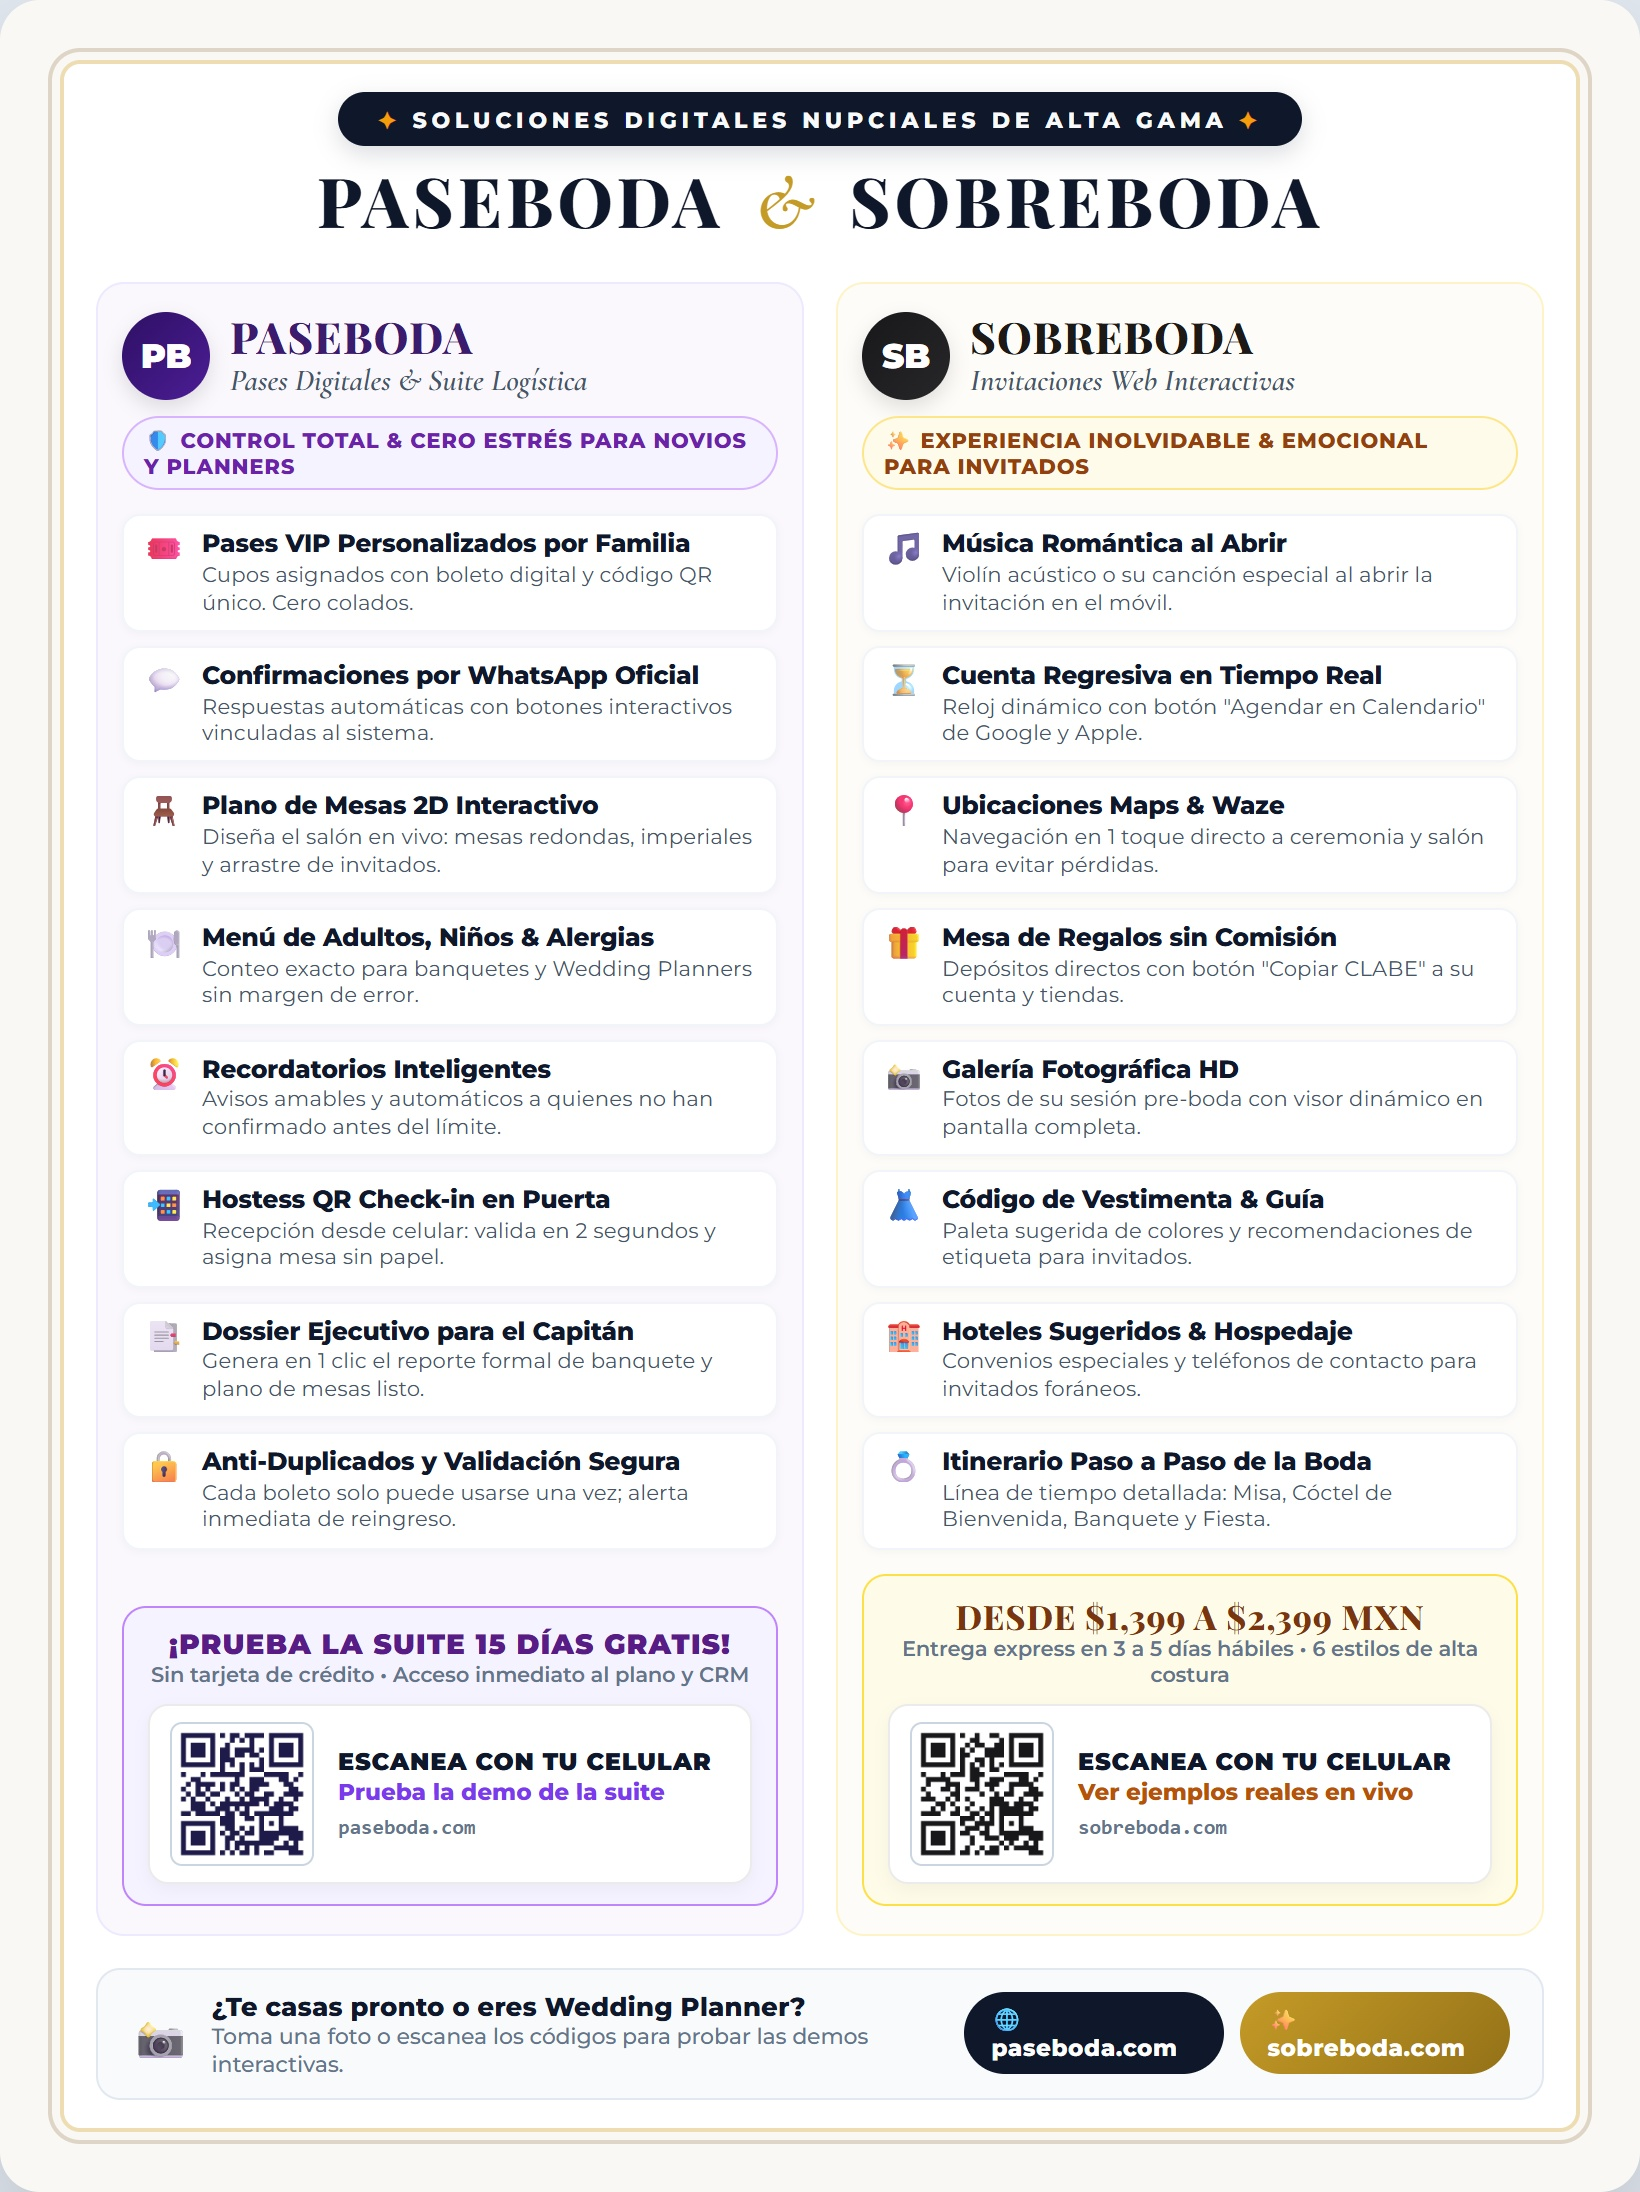
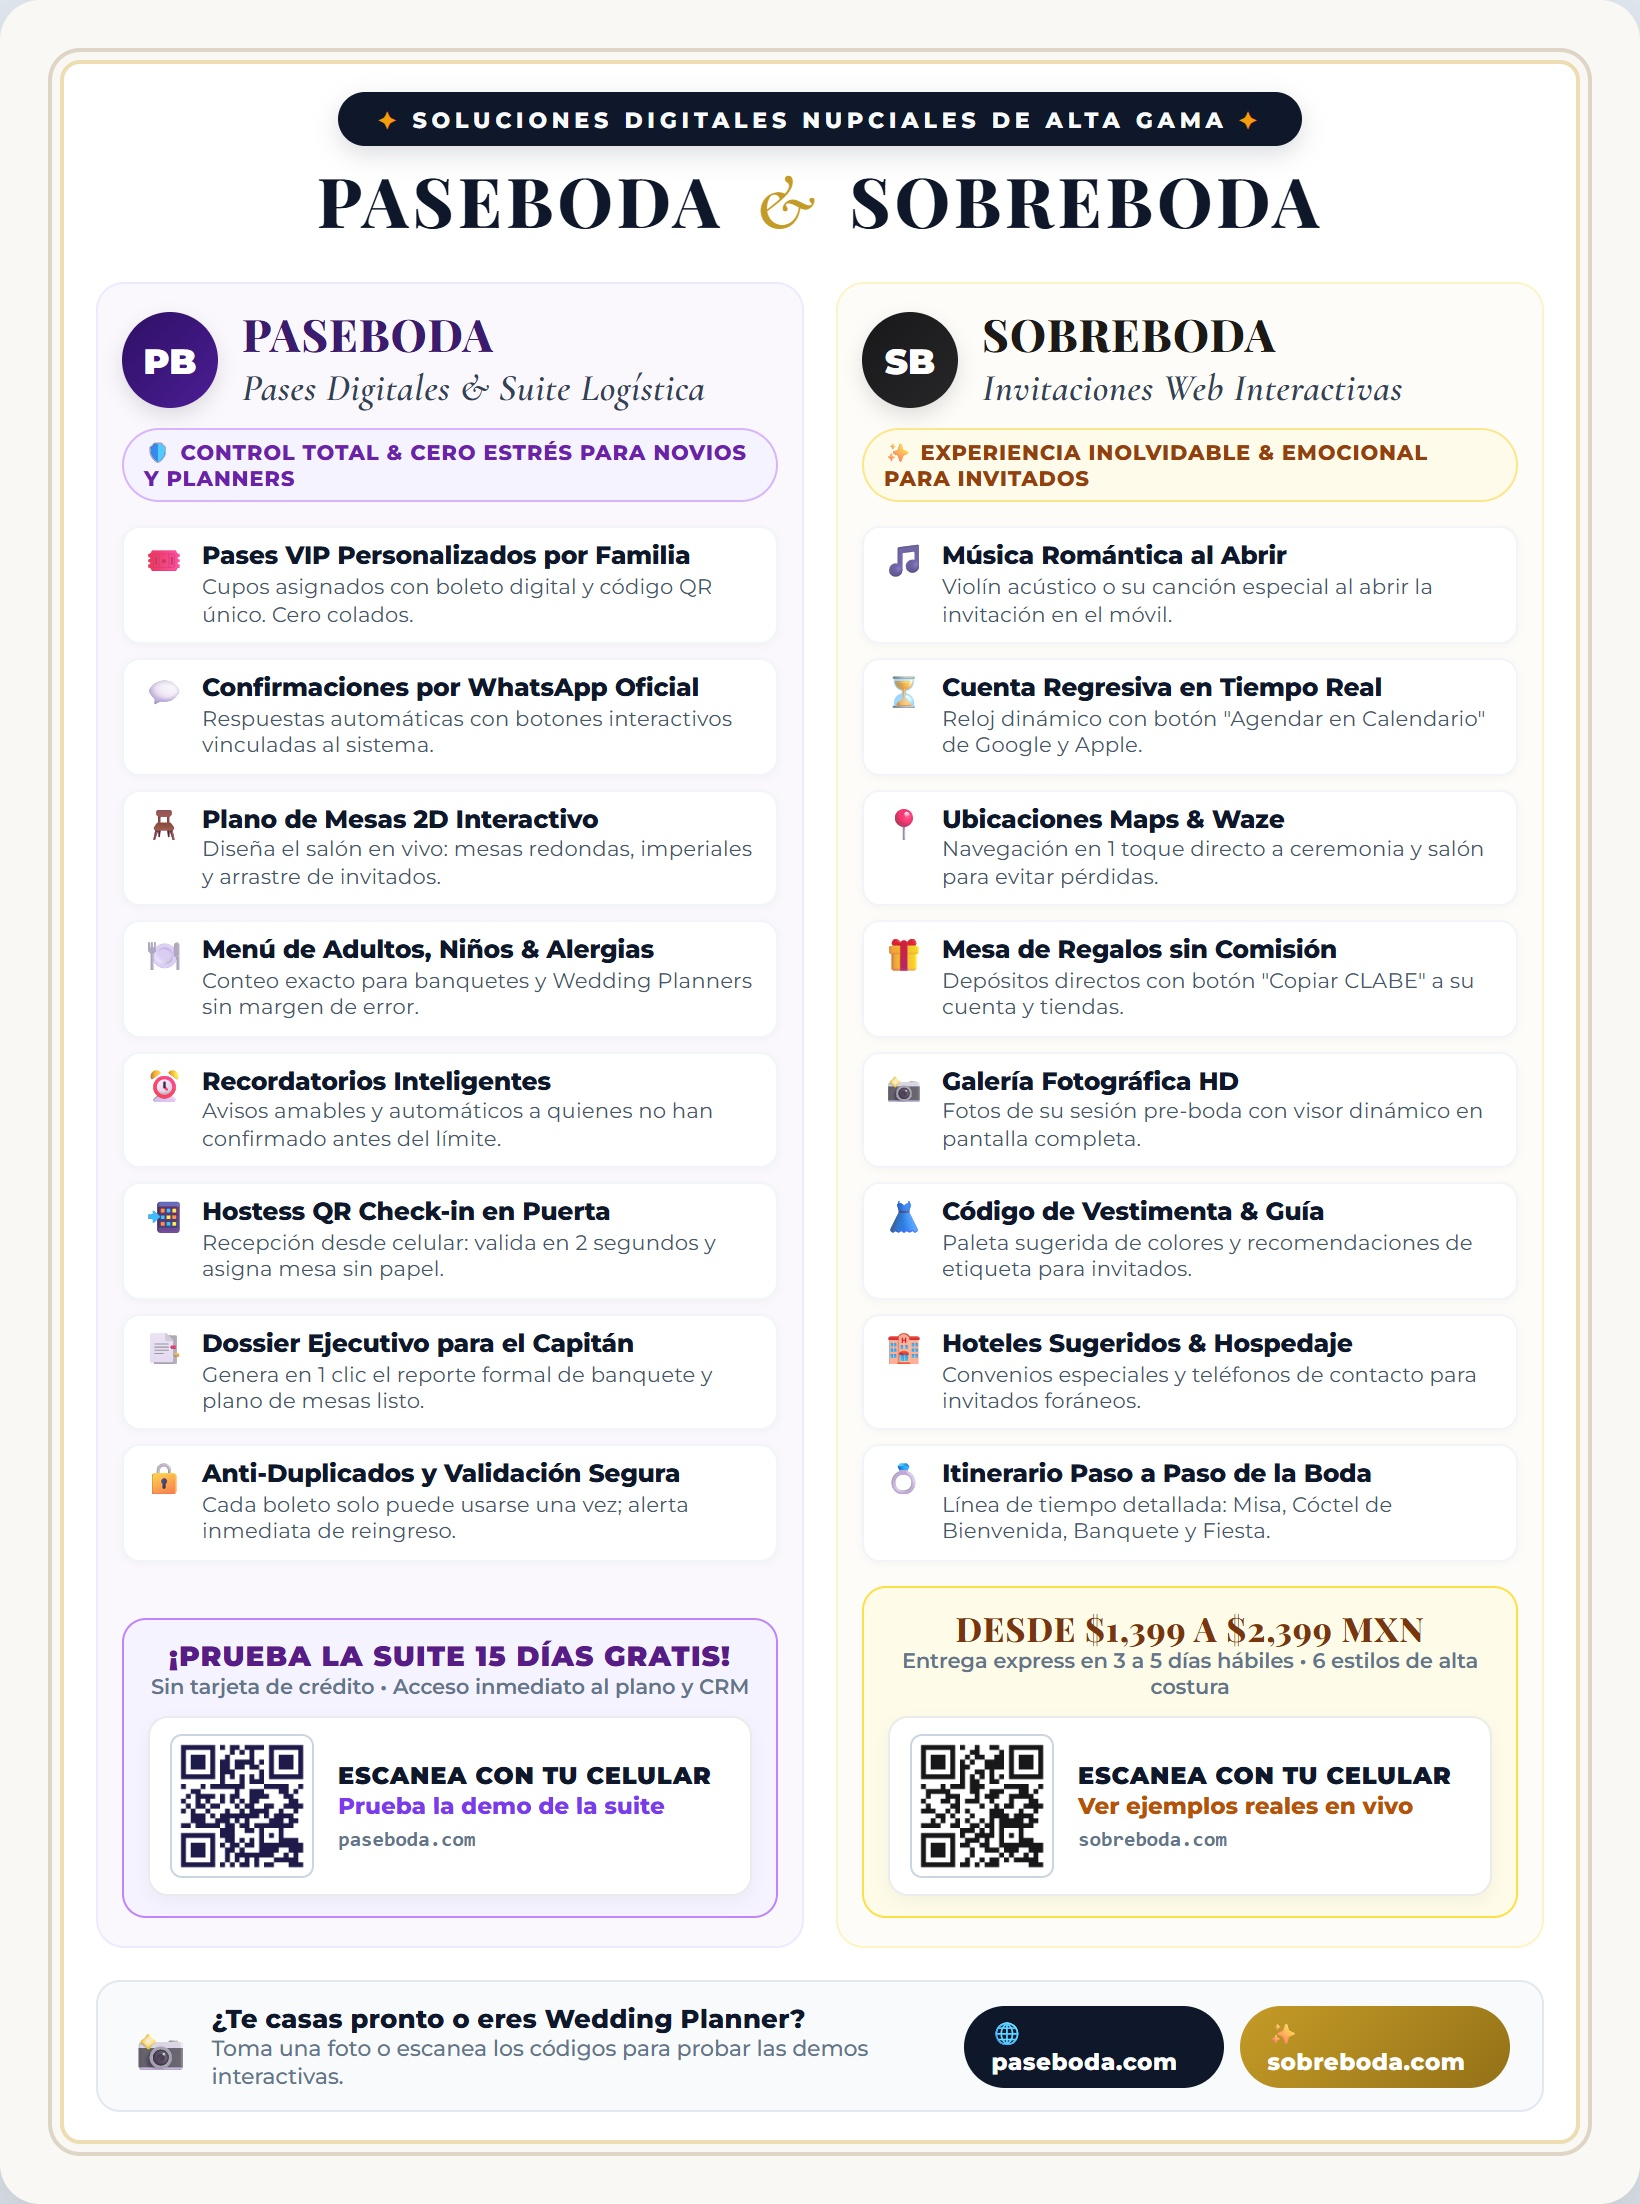
style: enlarge brand subtitles on double wall flyer for better distance visibility

diff --git a/flyer-pared-doble.html b/flyer-pared-doble.html
@@ -136,18 +136,18 @@
         .brand-header {
             display: flex;
             align-items: center;
-            gap: 10px;
-            margin-bottom: 8px;
+            gap: 12px;
+            margin-bottom: 10px;
         }
         .brand-avatar {
-            width: 44px;
-            height: 44px;
+            width: 48px;
+            height: 48px;
             border-radius: 50%;
             display: flex;
             align-items: center;
             justify-content: center;
             font-weight: 900;
-            font-size: 1.05rem;
+            font-size: 1.1rem;
             color: #ffffff;
             flex-shrink: 0;
             box-shadow: 0 4px 10px rgba(0,0,0,0.12);
@@ -157,11 +157,11 @@
 
         .brand-titles h3 {
             font-family: 'Playfair Display', serif;
-            font-size: 1.35rem;
+            font-size: 1.4rem;
             font-weight: 800;
             letter-spacing: 0.5px;
-            line-height: 1;
-            margin-bottom: 3px;
+            line-height: 1.05;
+            margin-bottom: 4px;
         }
         .title-pb { color: var(--pb-purple); }
         .title-sb { color: var(--sb-dark); }
@@ -169,10 +169,11 @@
         .brand-titles p {
             font-family: 'Cormorant Garamond', serif;
             font-style: italic;
-            font-size: 0.95rem;
-            font-weight: 600;
-            color: #475569;
-            line-height: 1;
+            font-size: 1.18rem;
+            font-weight: 700;
+            color: #334155;
+            line-height: 1.1;
+            letter-spacing: 0.3px;
         }
 
         .brand-pill {

diff --git a/scripts/send-flyer-tg.js b/scripts/send-flyer-tg.js
@@ -1,0 +1,25 @@
+const fs = require('fs');
+const path = require('path');
+
+const token = process.env.TELEGRAM_BOT_TOKEN || '8805191453:AAEMzlCf11tzcD8PK6OL7UtEzIY-UZeWZ0A';
+const chatId = process.env.TELEGRAM_CHAT_ID || '1374411558';
+const filePath = path.join(__dirname, '../assets/img/flyer_pared_doble_preview.jpg');
+
+async function sendUpdatedFlyer() {
+  const fileBuffer = fs.readFileSync(filePath);
+  const blob = new Blob([fileBuffer], { type: 'image/jpeg' });
+  const form = new FormData();
+  form.append('chat_id', chatId);
+  form.append('photo', blob, 'flyer_pared_doble_preview.jpg');
+  form.append('caption', '🖼 <b>¡Subtítulos Ampliados y Destacados!</b> ✨\n\n• Se aumentó la escala tipográfica a <b>1.18rem</b> con peso bold italic en:\n  1. <i>\"Pases Digitales & Suite Logística\"</i> (PaseBoda)\n  2. <i>\"Invitaciones Web Interactivas\"</i> (Sobreboda)\n\n• Mucho más legible y visible a más de 2 metros de distancia.');
+  form.append('parse_mode', 'HTML');
+
+  const res = await fetch(`https://api.telegram.org/bot${token}/sendPhoto`, {
+    method: 'POST',
+    body: form
+  });
+  const data = await res.json();
+  console.log('Telegram sendPhoto response:', data);
+}
+
+sendUpdatedFlyer().catch(console.error);
